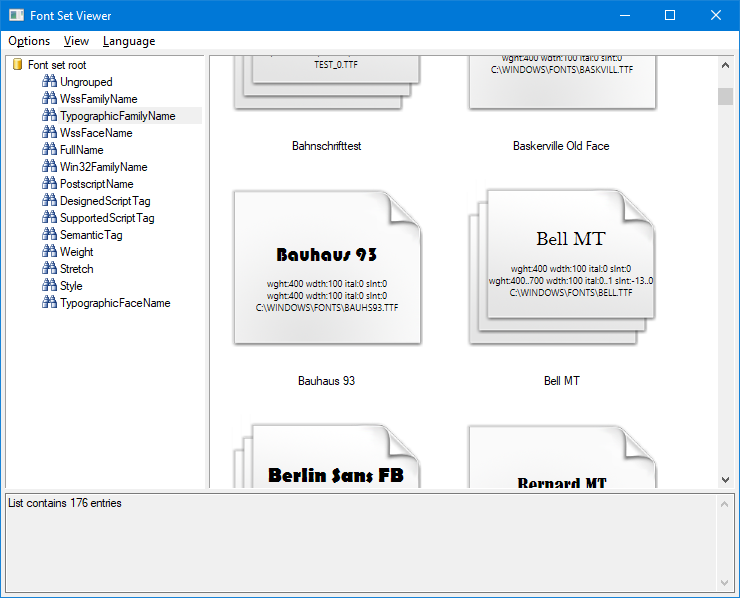
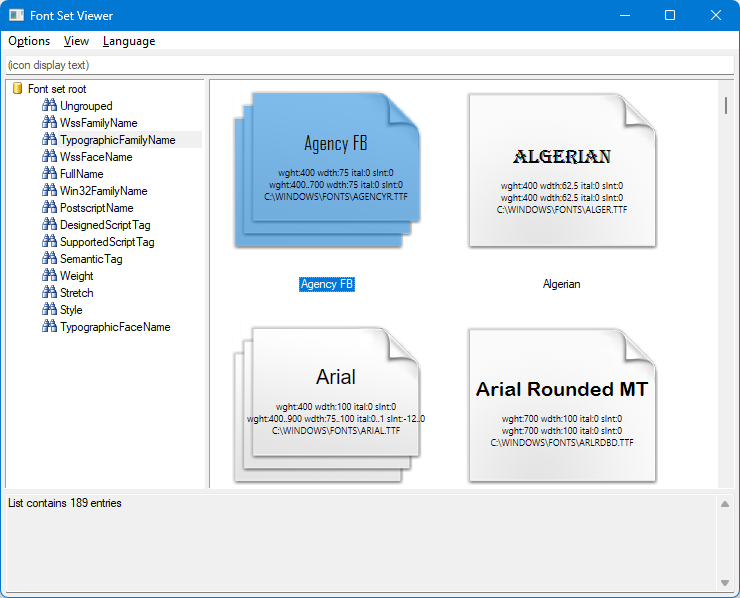
Add text edit control for display text

diff --git a/FontSetViewer.cpp b/FontSetViewer.cpp
@@ -942,6 +942,7 @@ HRESULT MainWindow::Initialize()
         AppendLog(AppendLogModeImmediate, L"Windows version is older than Windows 10. Application will have very limited functionality.\r\n");
     }
 
+    InitializeDisplayTextEdit();
     InitializeLanguageMenu();
     InitializeFontCollectionFilterUI();
     InitializeFontCollectionListUI();
@@ -1170,6 +1171,13 @@ DialogProcResult CALLBACK MainWindow::OnCommand(HWND hwnd, WPARAM wParam, LPARAM
         AppendLog(AppendLogModeImmediate, L"Language set to %s\r\n", g_locales[currentLanguageIndex_][0]);
         RebuildFontCollectionList();
         UpdateFontCollectionListUI();
+        break;
+
+    case IdcText:
+        if (wmEvent == EN_CHANGE)
+        {
+            InvalidateRect(GetDlgItem(hwnd_, IdcFontCollectionList), nullptr, true);
+        }
         break;
 
     case IdcActivateFontCollectionFilter:
@@ -1522,14 +1530,20 @@ HRESULT MainWindow::DrawFontCollectionIconPreview(const NMLVCUSTOMDRAW* customDr
         return S_FALSE;
 
     // Get the item text and icon index.
+    // Check if the text control has any text in it, else just use the listview item text.
     wchar_t textBuffer[256]; textBuffer[0] = '\0';
-    LVITEM listViewItem;
-    ZeroMemory(OUT &listViewItem, sizeof(listViewItem));
-    listViewItem.mask  = LVIF_TEXT | LVIF_IMAGE;
-    listViewItem.pszText = textBuffer;
-    listViewItem.cchTextMax = ARRAYSIZE(textBuffer);
-    listViewItem.iItem = itemIndex;
-    ListView_GetItem(customDraw->nmcd.hdr.hwndFrom, OUT &listViewItem);
+    HWND hwndText = GetDlgItem(hwnd_, IdcText);
+    Edit_GetText(hwndText, textBuffer, std::size(textBuffer));
+
+    LVITEM listViewItem = {};
+    if (textBuffer[0] == '\0')
+    {
+        listViewItem.mask  = LVIF_TEXT | LVIF_IMAGE;
+        listViewItem.pszText = textBuffer;
+        listViewItem.cchTextMax = ARRAYSIZE(textBuffer);
+        listViewItem.iItem = itemIndex;
+        ListView_GetItem(customDraw->nmcd.hdr.hwndFrom, OUT &listViewItem);
+    }
 
     // Transfer bitmap into temporary bitmap.
     BitBlt(renderTarget_->GetMemoryDC(), 0,0, rect.right - rect.left, rect.bottom - rect.top, customDraw->nmcd.hdc, rect.left, rect.top, SRCCOPY|NOMIRRORBITMAP);
@@ -1763,13 +1777,13 @@ void MainWindow::OnSize()
     RECT paddedClientRect = clientRect;
     InflateRect(IN OUT &paddedClientRect, -spacing, -spacing);
 
-    const size_t filterIndex = 0;
-    const size_t logIndex = 2;
+    const size_t filterIndex = 1;
+    const size_t logIndex = 3;
     const long mainWindowThirdWidth = paddedClientRect.right / 3;
     const long mainWindowQuarterHeight = paddedClientRect.bottom / 4;
     WindowPosition windowPositions[] = {
-        //WindowPosition(GetDlgItem(hwnd, IdcTags), PositionOptionsFillHeight | PositionOptionsAlignTop),
-        WindowPosition(GetDlgItem(hwnd, IdcFontCollectionFilter), PositionOptionsFillHeight),
+        WindowPosition(GetDlgItem(hwnd, IdcText), PositionOptionsFillWidth | PositionOptionsAlignTop),
+        WindowPosition(GetDlgItem(hwnd, IdcFontCollectionFilter), PositionOptionsFillHeight | PositionOptionsNewLine),
         WindowPosition(GetDlgItem(hwnd, IdcFontCollectionList), PositionOptionsFillWidth | PositionOptionsFillHeight),
         WindowPosition(GetDlgItem(hwnd, IdcLog), PositionOptionsFillWidth | PositionOptionsAlignTop | PositionOptionsNewLine),
     };
@@ -2984,6 +2998,14 @@ HRESULT MainWindow::PopFilter(
     RebuildFontCollectionList();
     UpdateFontCollectionListUI(selectedFontIndex);
 
+    return S_OK;
+}
+
+
+HRESULT MainWindow::InitializeDisplayTextEdit()
+{
+    HWND hwndText = GetDlgItem(hwnd_, IdcText);
+    Edit_SetCueBannerText(hwndText, L"(icon display text)");
     return S_OK;
 }
 

diff --git a/FontSetViewer.h b/FontSetViewer.h
@@ -125,6 +125,7 @@ protected:
     STDMETHODIMP CopyToClipboard(bool copyPlainText = false);
     STDMETHODIMP CopyImageToClipboard();
     STDMETHODIMP PasteFromClipboard();
+    STDMETHODIMP InitializeDisplayTextEdit();
     STDMETHODIMP InitializeLanguageMenu();
     STDMETHODIMP InitializeFontCollectionListUI();
     STDMETHODIMP InitializeFontCollectionFilterUI();

diff --git a/resources/resource.h b/resources/resource.h
@@ -16,7 +16,7 @@
 #define IdbFontCollectionFilter             4
 
 #define IdcLog                              1000
-#define IdcTags                             1001
+#define IdcText                             1001
 #define IdcFontCollectionList               1002
 #define IdcFontCollectionFilter             1003
 #define IdcActivateFont                     1004
